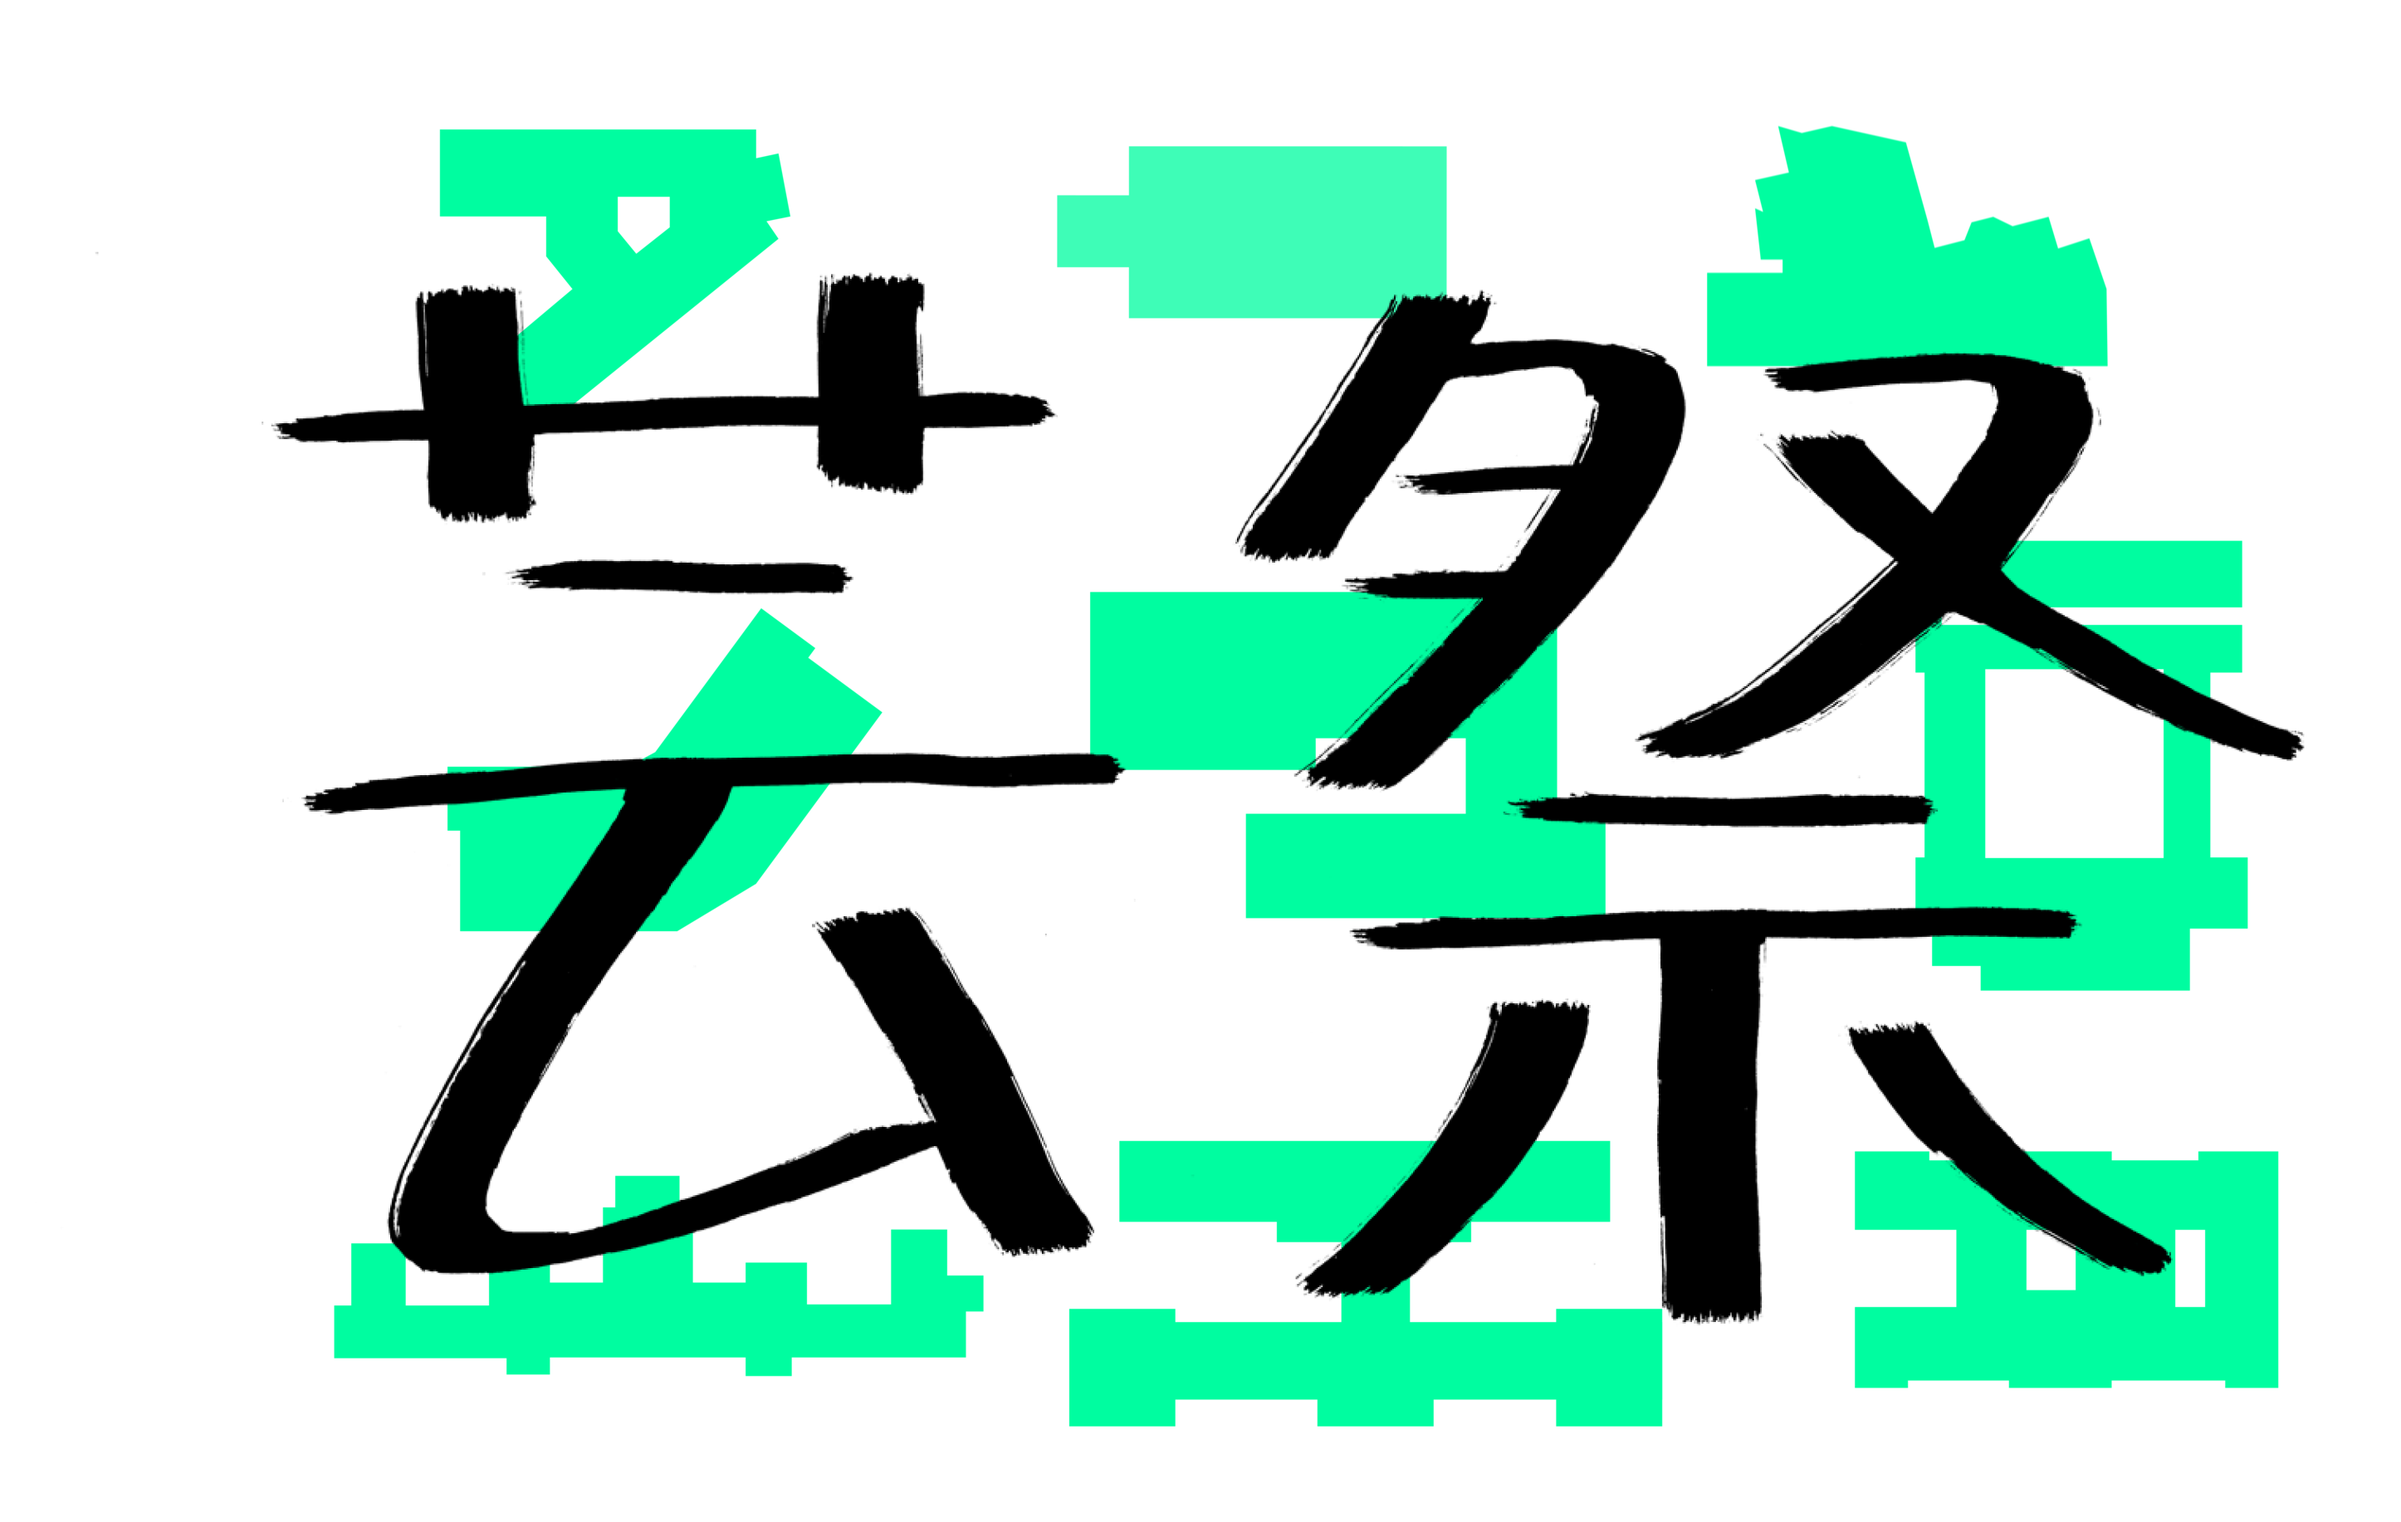
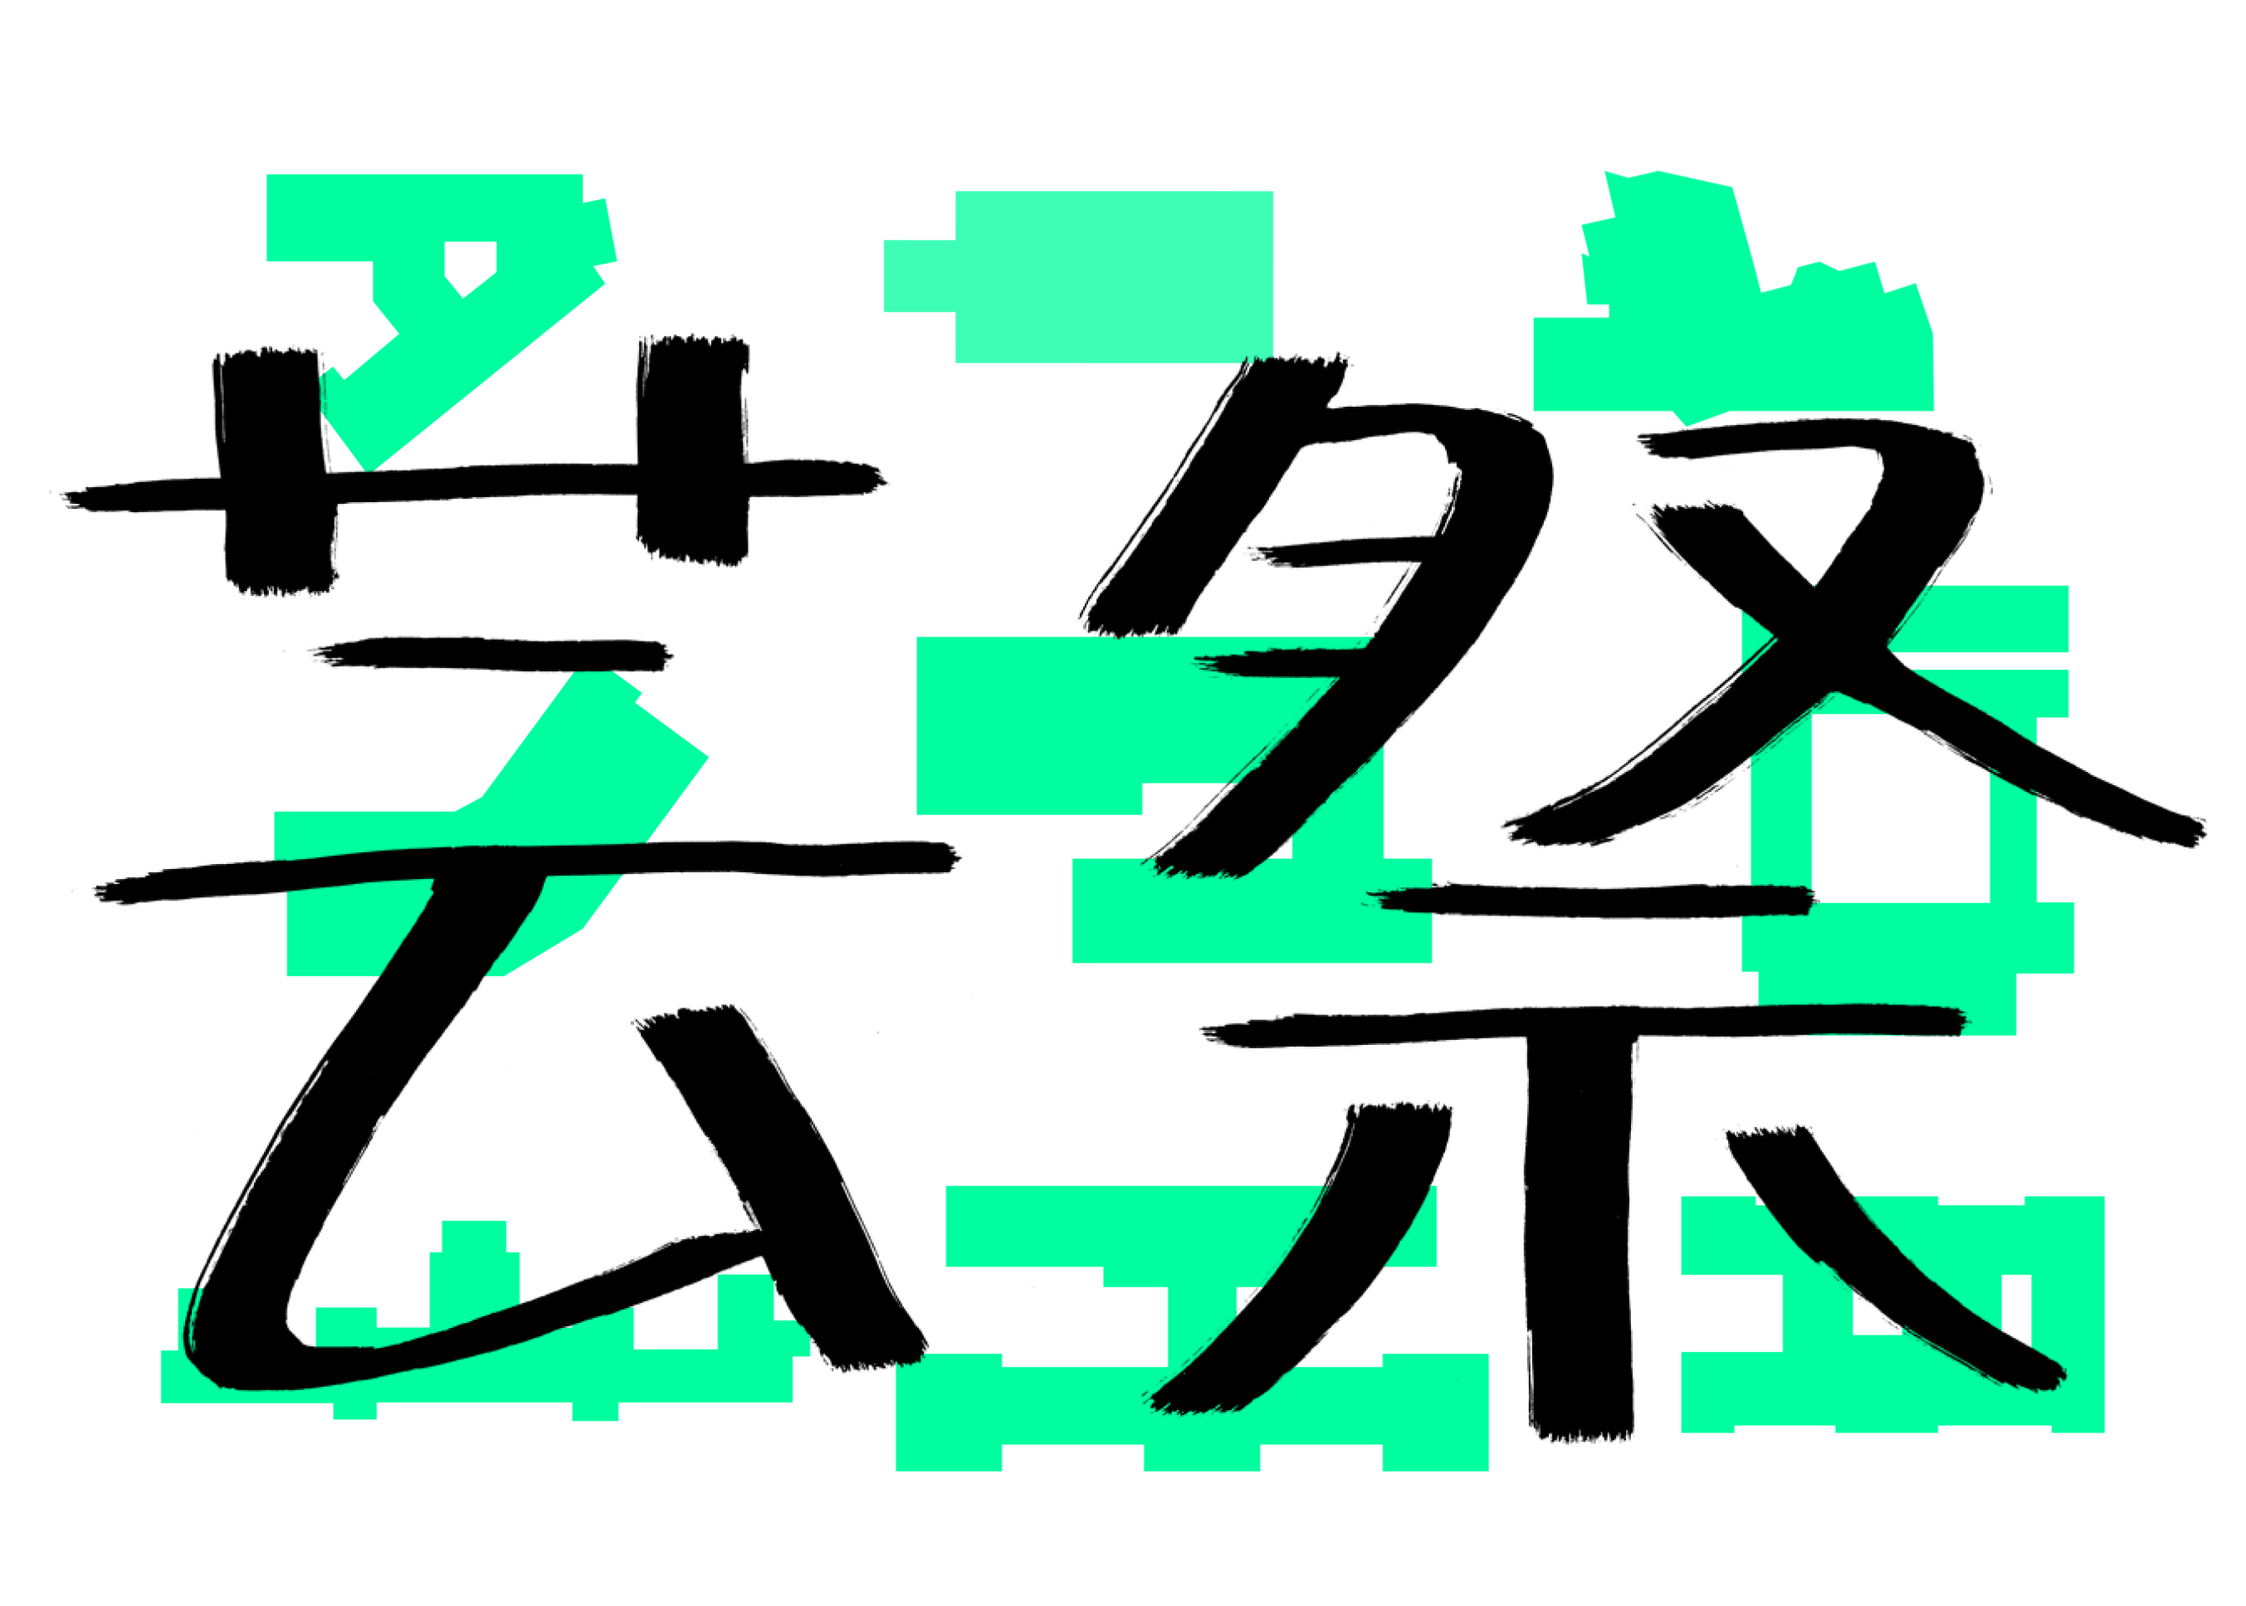
fix background of ogimages

diff --git a/src/app/[locale]/locations/[[...slug]]/page.tsx b/src/app/[locale]/locations/[[...slug]]/page.tsx
@@ -31,10 +31,7 @@ export async function generateMetadata(
       }),
       description: t('description'),
       openGraph: {
-        images: [
-          `/assets/ogimages/image-${location?.image ?? '9'}.png`,
-          ...previousImages,
-        ],
+        images: [`/assets/ogimages/image-${location?.image ?? '9'}.png`],
       },
     };
   }

diff --git a/src/app/[locale]/design/page.tsx b/src/app/[locale]/design/page.tsx
@@ -8,7 +8,7 @@ export async function generateMetadata(): Promise<Metadata> {
     title: t('meta_title'),
     description: t('meta_description'),
     openGraph: {
-      images: ['/assets/projects/ka/writing.png'],
+      images: ['/assets/ogimages/ka.png'],
     },
   };
 }

diff --git a/src/app/[locale]/@modal/(.)contact/page.tsx b/src/app/[locale]/@modal/(.)contact/page.tsx
@@ -13,7 +13,7 @@ export async function generateMetadata({
     title: t('title'),
     description: t('description'),
     openGraph: {
-      images: ['/assets/projects/ja/writing.png'],
+      images: ['/assets/ogimages/ja.png'],
     },
   };
 }

diff --git a/src/app/[locale]/@modal/(.)imprint/page.tsx b/src/app/[locale]/@modal/(.)imprint/page.tsx
@@ -13,7 +13,7 @@ export async function generateMetadata({
     title: t('title'),
     description: t('description'),
     openGraph: {
-      images: ['/assets/projects/zh/writing.png'],
+      images: ['/assets/ogimages/zh.png'],
     },
   };
 }

diff --git a/src/app/[locale]/contact/page.tsx b/src/app/[locale]/contact/page.tsx
@@ -12,7 +12,7 @@ export async function generateMetadata({
     title: t('title'),
     description: t('description'),
     openGraph: {
-      images: ['/assets/projects/ja/writing.png'],
+      images: ['/assets/ogimages/ja.png'],
     },
   };
 }

diff --git a/src/app/[locale]/imprint/page.tsx b/src/app/[locale]/imprint/page.tsx
@@ -12,7 +12,7 @@ export async function generateMetadata({
     title: t('title'),
     description: t('description'),
     openGraph: {
-      images: ['/assets/projects/hi/writing.png'],
+      images: ['/assets/ogimages/hi.png'],
     },
   };
 }

diff --git a/src/app/[locale]/info/page.tsx b/src/app/[locale]/info/page.tsx
@@ -12,7 +12,7 @@ export async function generateMetadata({
     title: t('title'),
     description: t('description'),
     openGraph: {
-      images: ['/assets/projects/de/writing.png'],
+      images: ['/assets/ogimages/de.png'],
     },
   };
 }

diff --git a/src/app/[locale]/saved/page.tsx b/src/app/[locale]/saved/page.tsx
@@ -13,7 +13,7 @@ export async function generateMetadata({
     title: t('title'),
     description: t('description'),
     openGraph: {
-      images: ['/assets/projects/ru/writing.png'],
+      images: ['/assets/ogimages/ru.png'],
     },
   };
 }

diff --git a/src/app/[locale]/timeline/[[...slug]]/page.tsx b/src/app/[locale]/timeline/[[...slug]]/page.tsx
@@ -17,7 +17,7 @@ export async function generateMetadata({
     title: t('title'),
     description: t('description'),
     openGraph: {
-      images: ['/assets/projects/uk/writing.png'],
+      images: ['/assets/ogimages/uk.png'],
     },
   };
 }

diff --git a/src/app/[locale]/layout.tsx b/src/app/[locale]/layout.tsx
@@ -49,7 +49,7 @@ export async function generateMetadata({
       },
     },
     openGraph: {
-      images: [`/assets/projects/${lang}/writing.png`],
+      images: [`/assets/ogimages/${lang}.png`],
     },
   };
 }
